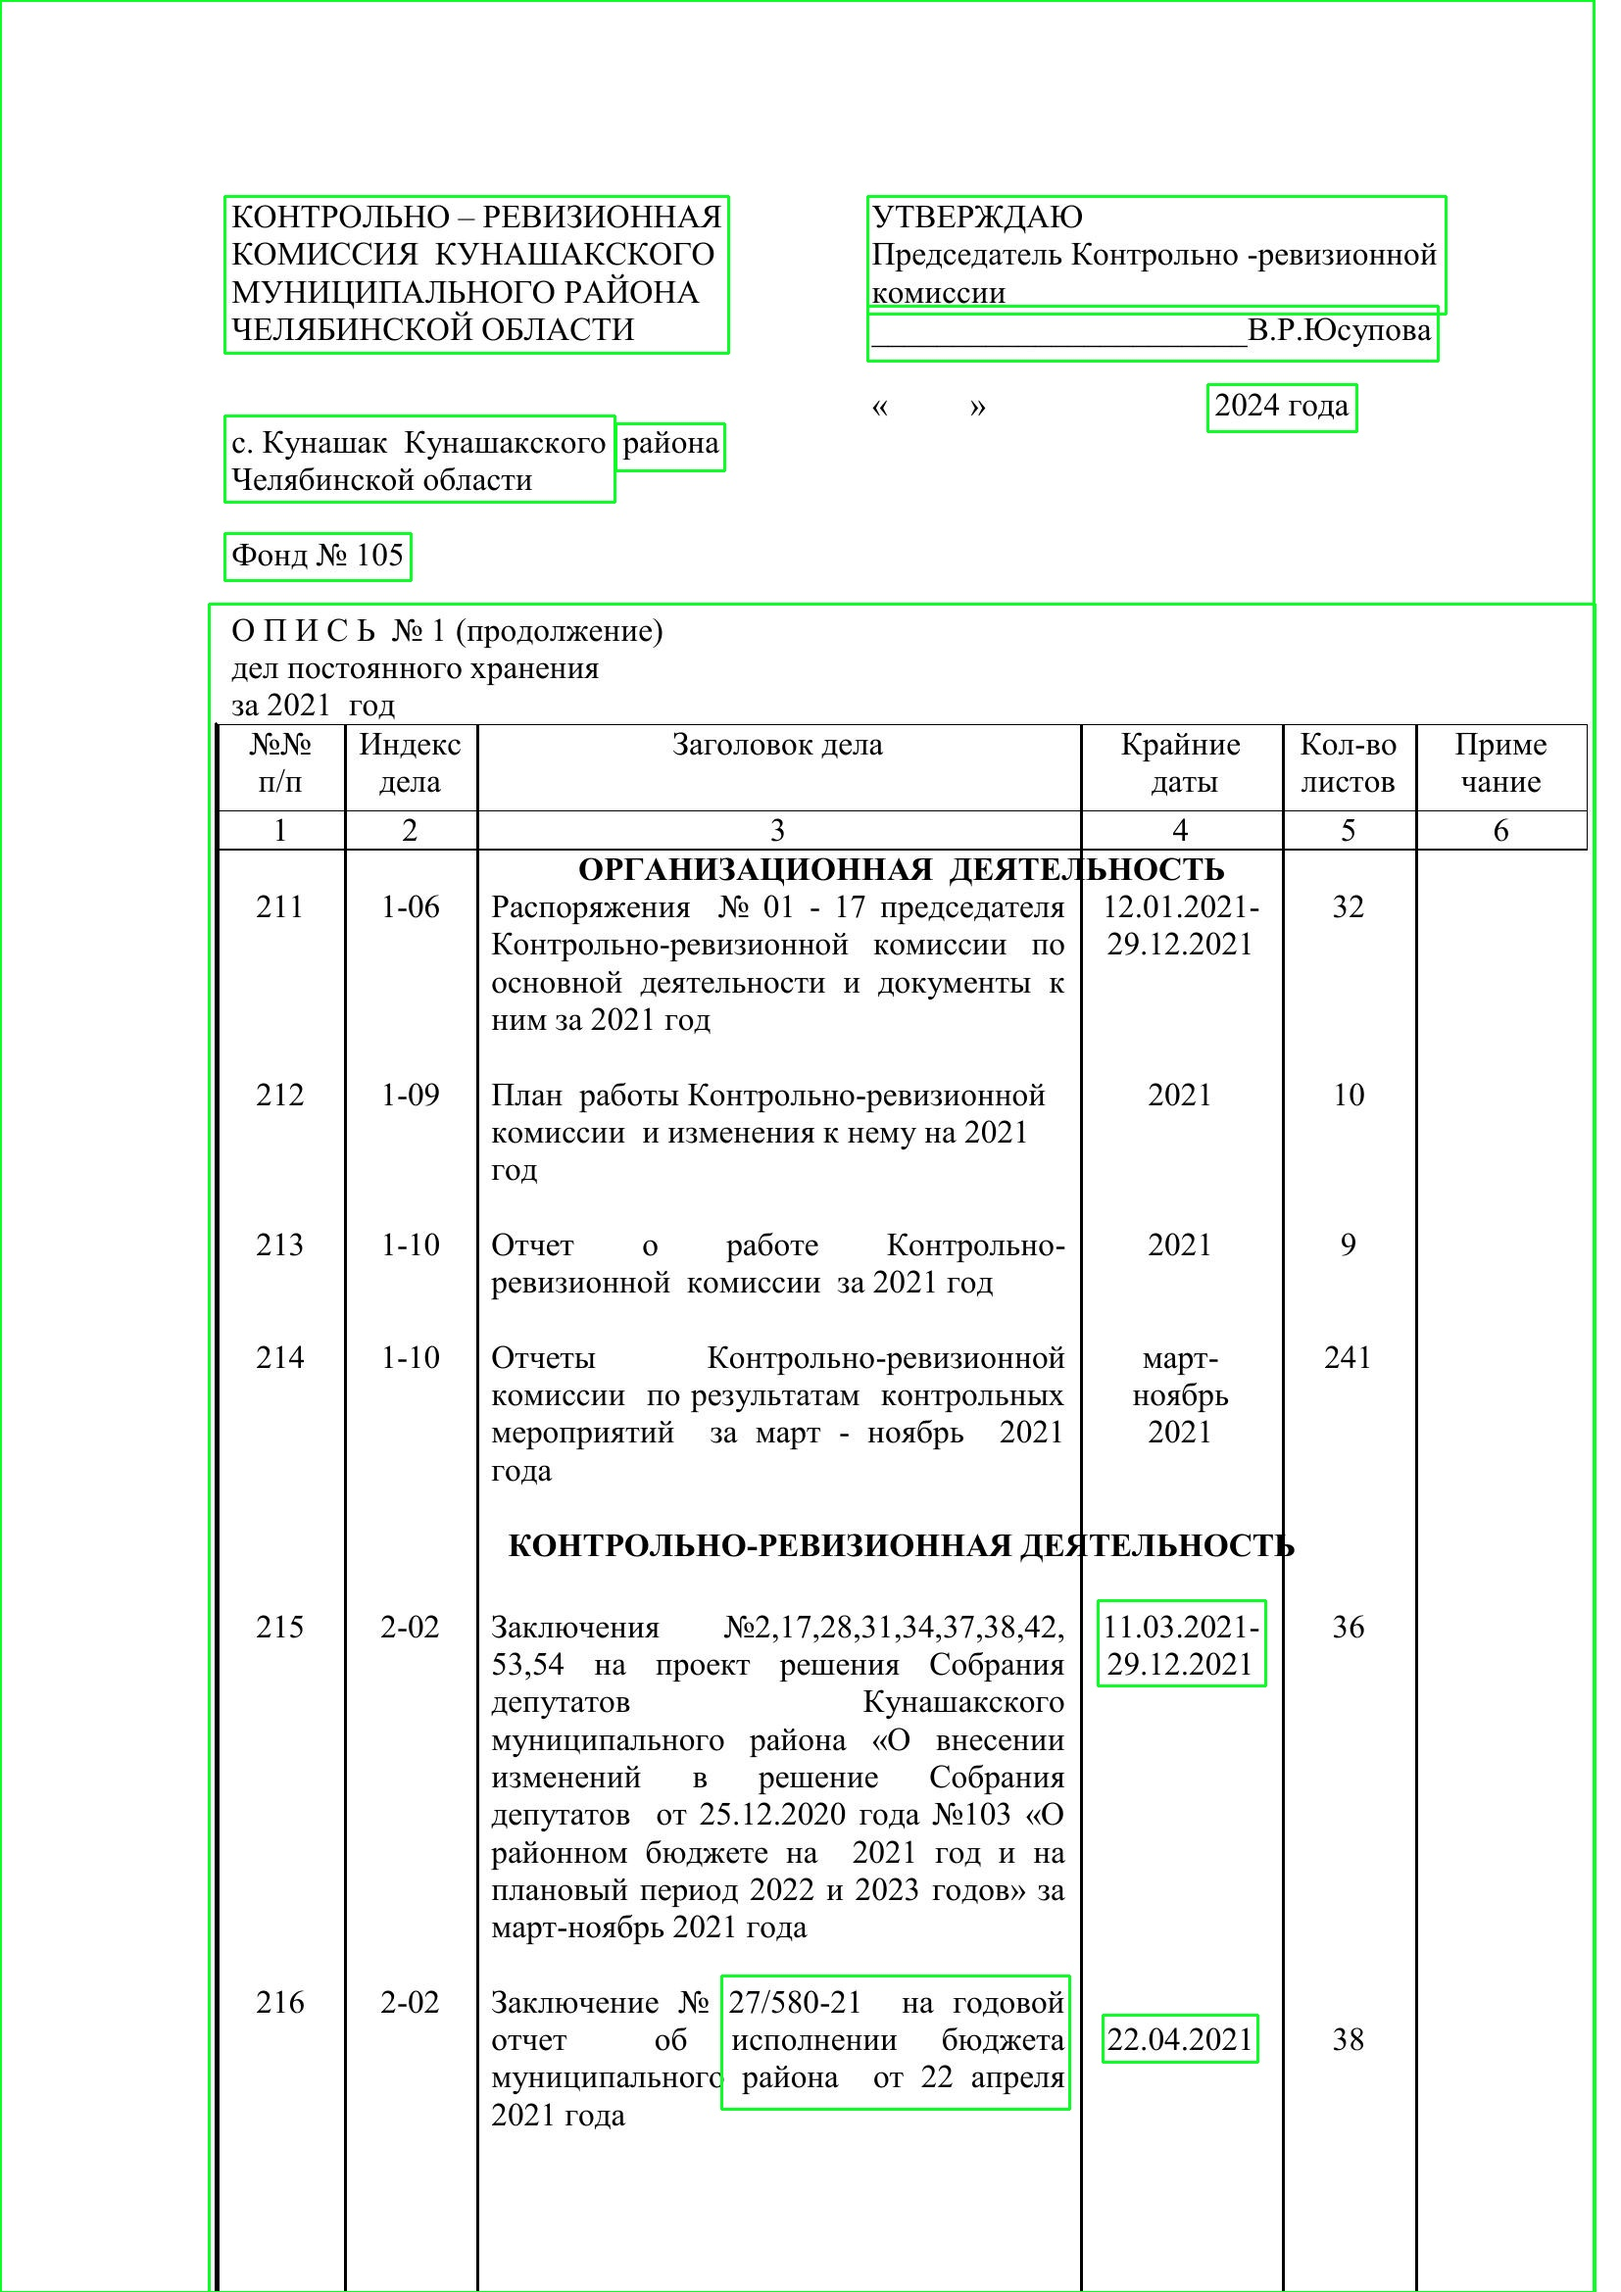
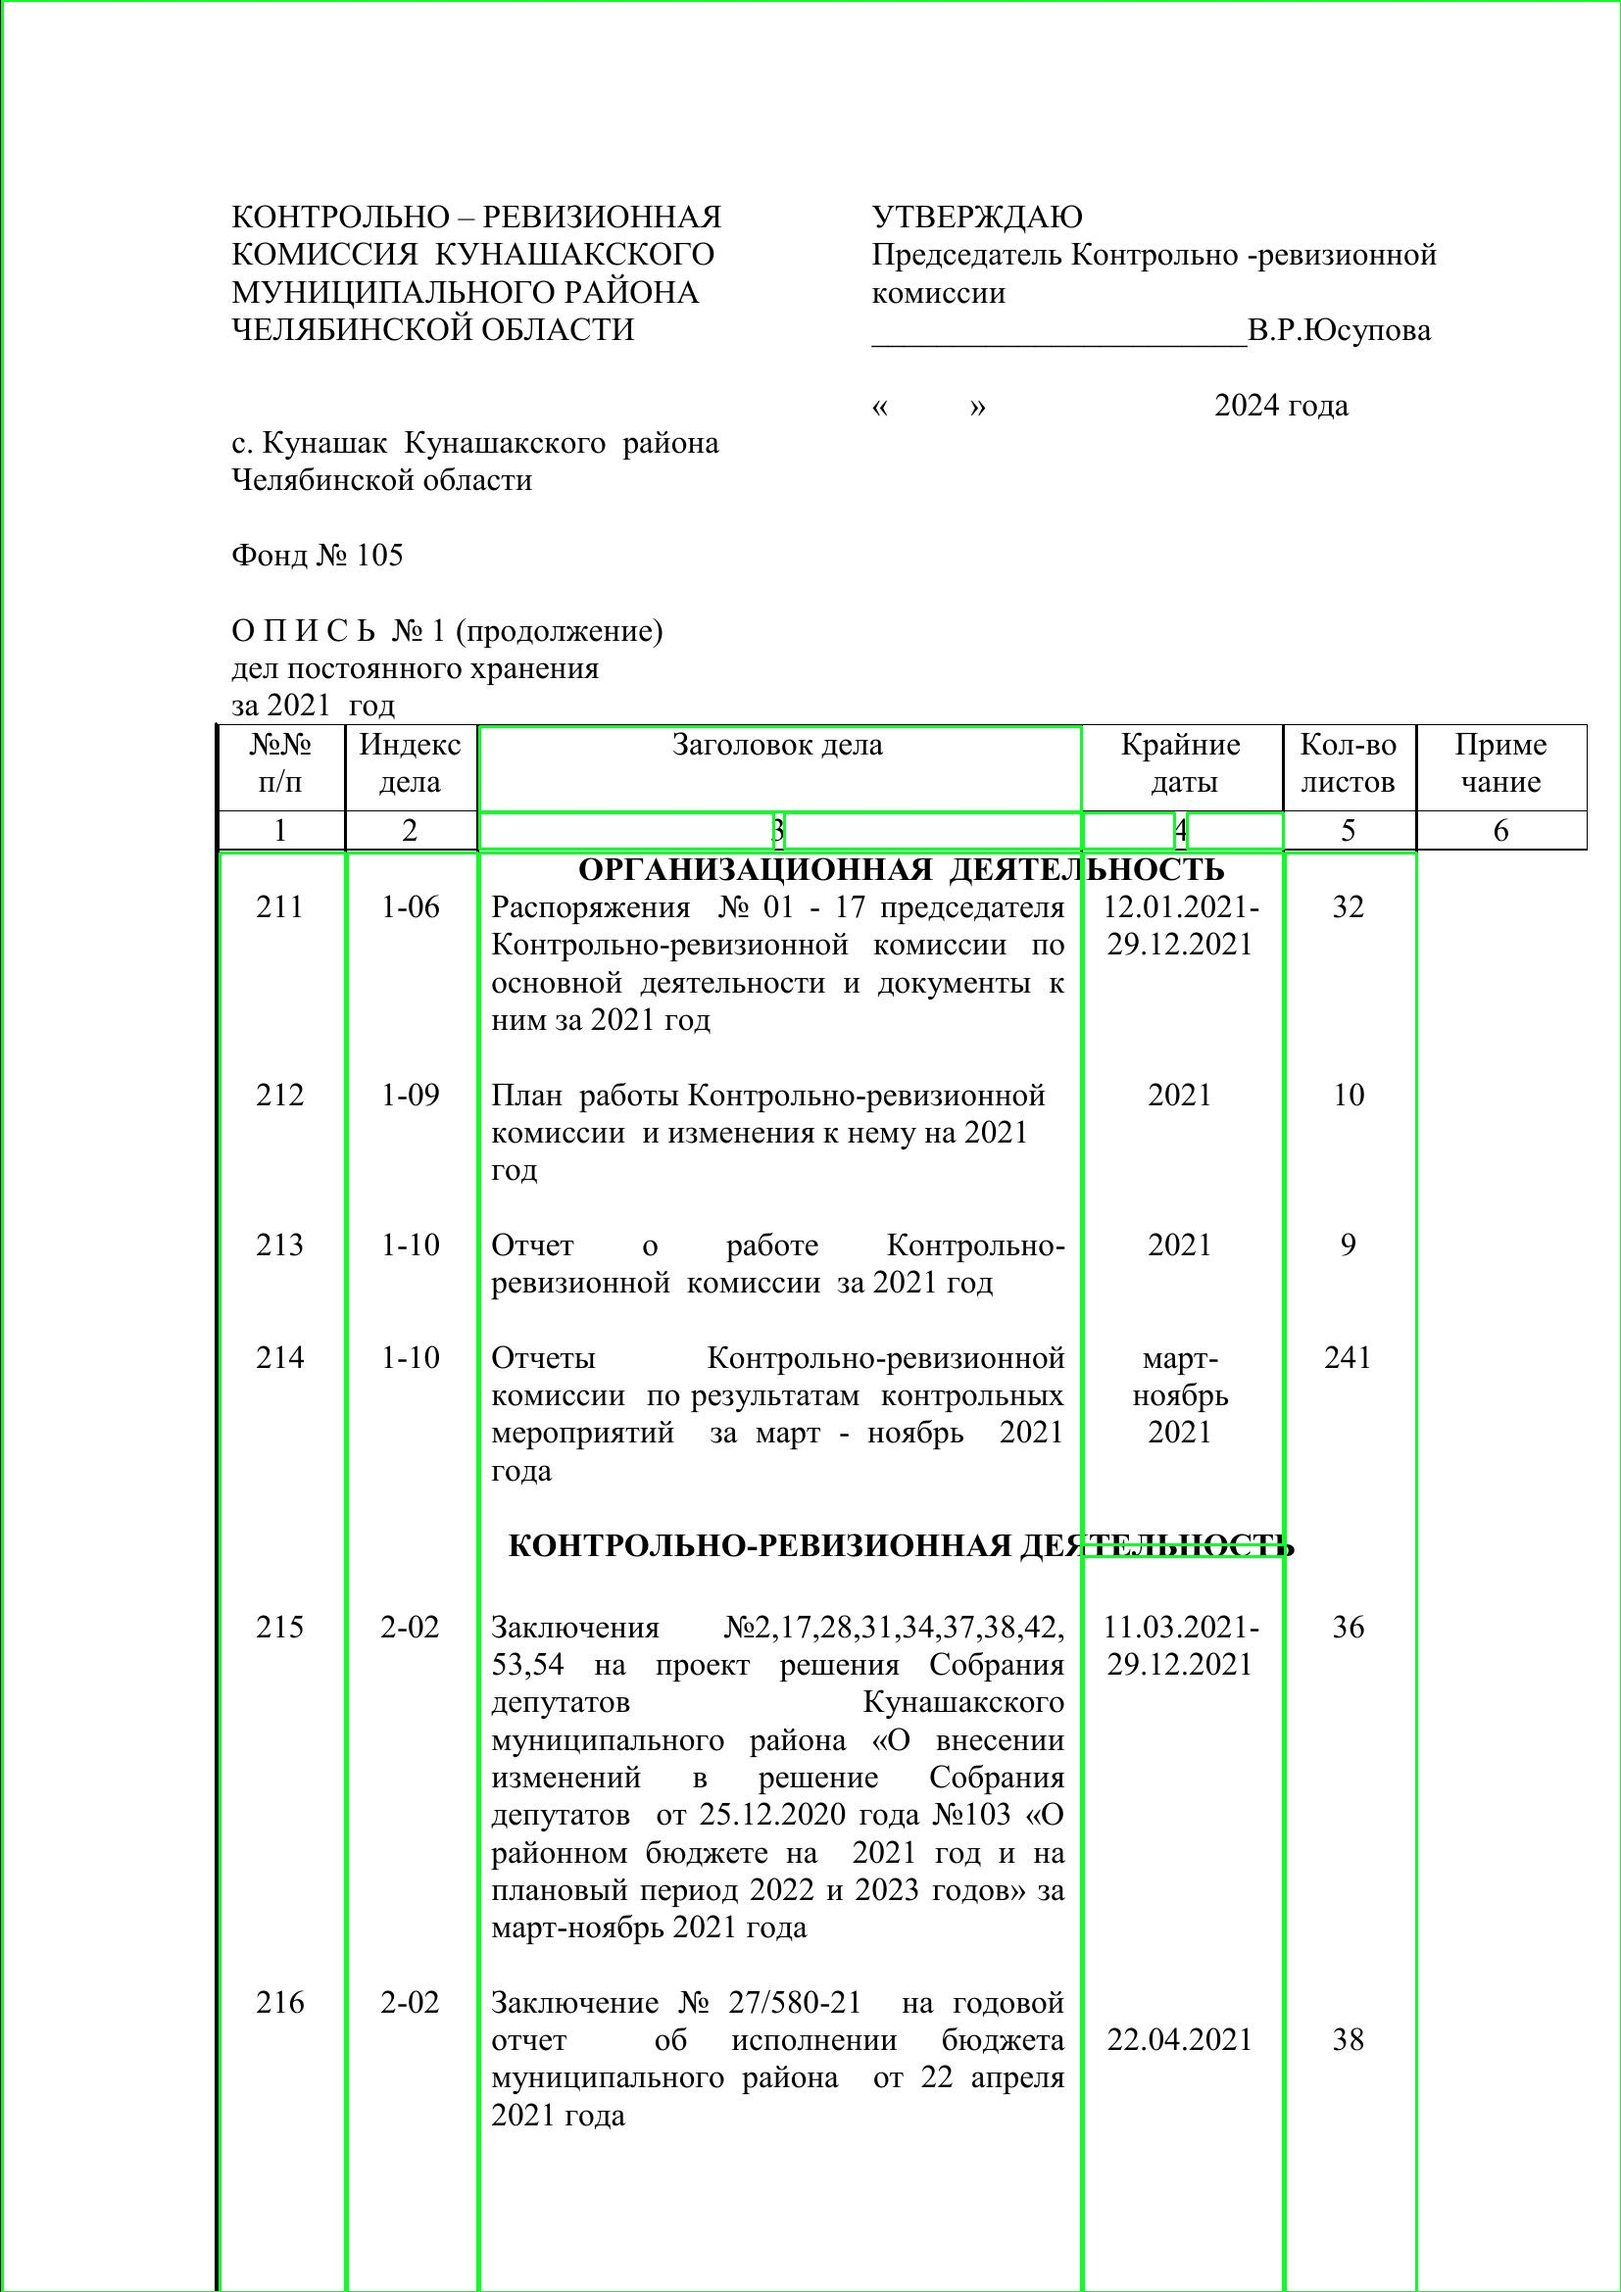
Подогнал параметры предварительной обработки, однако все равно не вся таблица считывается

diff --git a/lama 3.1/proverka8/DocumentChecker.py b/lama 3.1/proverka8/DocumentChecker.py
@@ -33,7 +33,7 @@ def build_table(images_path = local_to_absolute_path('lama 3.1/proverka8/data/pd
         gray = cv2.cvtColor(filterd_image, cv2.COLOR_BGR2GRAY)
 
         # Бинаризация
-        ret, thresh = cv2.threshold(gray, 200, 255, cv2.THRESH_BINARY)
+        ret, thresh = cv2.threshold(gray, 150, 255, cv2.THRESH_BINARY)
 
         # Поиск контуров заголовков
         contours, hierarchy = cv2.findContours(thresh, cv2.RETR_TREE, cv2.CHAIN_APPROX_SIMPLE)
@@ -180,7 +180,7 @@ def apply_dilate():
     dilate_folder = local_to_absolute_path(r'G:\Python\urfu_LLM_documents\lama 3.1\proverka8\dilate_image')
     
     # Создаем ядро для dilate
-    kernal = cv2.getStructuringElement(cv2.MORPH_RECT, (5, 15))
+    kernal = cv2.getStructuringElement(cv2.MORPH_RECT, (10, 30))
     
     # Проходим по изображениям в папке threshold_image и применяем dilate
     for filename in os.listdir(threshold_folder):
@@ -201,7 +201,6 @@ def build_table_after_preprocessing(images_path = local_to_absolute_path('lama 3
     change_image_folder = r'G:\Python\urfu_LLM_documents\lama 3.1\proverka8\change_image'  # Папка с исходными изображениями
 
     for iterator in range(1, len(os.listdir(images_path)) + 1):
-        # Загружаем обработанное изображение из папки dilate_image
         dilate_path = os.path.join(images_path, f'result_image_{iterator}.jpg')
         dilate = cv2.imread(dilate_path)
 
@@ -210,7 +209,6 @@ def build_table_after_preprocessing(images_path = local_to_absolute_path('lama 3
             print(f"Не удалось загрузить изображение {dilate_path}")
             continue
 
-        # Загружаем исходное изображение из папки change_image
         image_path = os.path.join(change_image_folder, f'result_image_{iterator}.jpg')
         image = cv2.imread(image_path)
 
@@ -222,8 +220,15 @@ def build_table_after_preprocessing(images_path = local_to_absolute_path('lama 3
         # Преобразуем изображение dilate в серый цвет для поиска контуров
         gray_dilate = cv2.cvtColor(dilate, cv2.COLOR_BGR2GRAY)
 
-        # Поиск контуров на изображении, которое уже прошло dilate (в сером формате)
-        cnts, _ = cv2.findContours(gray_dilate, cv2.RETR_EXTERNAL, cv2.CHAIN_APPROX_SIMPLE)
+        # Применение пороговой обработки для выделения контуров
+        _, thresh = cv2.threshold(gray_dilate, 150, 255, cv2.THRESH_BINARY_INV)
+
+        # Морфологическое расширение для улучшения контуров
+        kernal = cv2.getStructuringElement(cv2.MORPH_RECT, (13, 30))  # Увеличиваем размер ядра
+        dilated = cv2.dilate(thresh, kernal, iterations=1)
+
+        # Поиск контуров на изображении
+        cnts, _ = cv2.findContours(dilated, cv2.RETR_EXTERNAL, cv2.CHAIN_APPROX_SIMPLE)
 
         # Сортировка контуров по координате X (влево-направо)
         cnts = sorted(cnts, key=lambda x: cv2.boundingRect(x)[0])
@@ -231,7 +236,7 @@ def build_table_after_preprocessing(images_path = local_to_absolute_path('lama 3
         # Рисование прямоугольников для каждого контура на исходном изображении
         for c in cnts:
             x, y, w, h = cv2.boundingRect(c)
-            if w > 80 and h > 30:  # Фильтрация контуров по размерам
+            if w > 80 and h > 30:  # Фильтрация по размерам столбцов
                 cv2.rectangle(image, (x, y), (x + w, y + h), (36, 255, 12), 2)
 
         # Сохранение изображения с прямоугольниками
